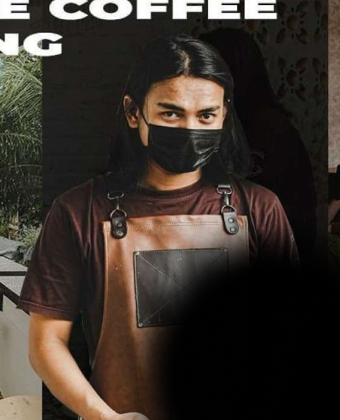
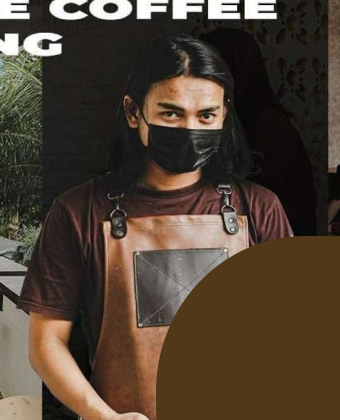
update gede

Changed region(s): [[0.3529, 0.5262, 1.0, 1.0]]

diff --git a/public/assets/frontend/css/style.css b/public/assets/frontend/css/style.css
@@ -203,7 +203,7 @@ a.btn_1 {
     cursor: pointer;
     display: inline-block;
     text-decoration: none;
-    padding: 8px 25px;
+    padding: 10px 24px;
     color: #fff;
     font-weight: 500;
     text-align: center;
@@ -217,7 +217,7 @@ a.btn_1 {
     -webkit-border-radius: 3px;
     -moz-border-radius: 3px;
     -ms-border-radius: 3px;
-    border-radius: 3px;
+    border-radius: 10px;
     line-height: normal;
 }
 
@@ -594,7 +594,7 @@ header.sticky a.open_close {
 
 .main-menu>ul>li>a {
     color: #fff;
-    padding: 5px 8px;
+    padding: 5px 12px;
     font-size: 14px;
     font-size: 0.875rem;
     font-weight: 500;
@@ -1827,7 +1827,7 @@ a.img_container .short_info p {
     background-color: #262626;
     color: #fff;
     padding: 45px;
-    border-radius: 5px;
+    border-radius: 12px !important;
     -webkit-border-radius: 5px;
     -moz-border-radius: 5px;
     -ms-border-radius: 5px;
@@ -1858,7 +1858,7 @@ a.img_container .short_info p {
     background: #262626;
     padding: 20px;
     height: 100%;
-    border-radius: 5px;
+    border-radius: 12px !important;
     -webkit-border-radius: 5px;
     -moz-border-radius: 5px;
     -ms-border-radius: 5px;
@@ -1868,7 +1868,7 @@ a.img_container .short_info p {
 .call_section_img img {
     height: 100% !important;
     object-fit: cover !important;
-    border-radius: 5px;
+    border-radius: 12px !important;
     -webkit-border-radius: 5px;
     -moz-border-radius: 5px;
     -ms-border-radius: 5px;
@@ -1893,9 +1893,9 @@ a.img_container .short_info p {
     content: "";
     width: 200px;
     height: 200px;
-    background: #513819;
-    top: -30px;
-    left: -30px;
+    background: none;
+    top: -11px;
+    left: -10px;
     z-index: -1;
     border-radius: 5px;
 }
@@ -3079,6 +3079,7 @@ a.img_container .short_info p {
 }
 
 .box_contacts {
+    height: 227px;
     background-color: #fff;
     padding: 30px 15px;
     -webkit-border-radius: 5px;
@@ -3624,7 +3625,7 @@ iframe.map_contact {
 }
 
 footer {
-    background-color: #282C35 !important;
+    background-color: #262626 !important;
     padding: 60px 0 10px 0;
     color: rgba(255, 255, 255, 0.6);
     position: relative;

diff --git a/resources/views/home.blade.php b/resources/views/home.blade.php
@@ -55,7 +55,7 @@
     </div>
 
 
-    <section class="container margin_120_100">
+    <!-- <section class="container margin_120_100">
         <div class="row">
             <div class="col-xl-4">
                 <a href="{{ route('menu') }}" class="img_container">
@@ -67,7 +67,7 @@
                 </a>
             </div>
             <div class="col-xl-4">
-                <a href="menu.html" class="img_container">
+                <a href="{{ route('allblogs') }}" class="img_container">
                     <img src="{{ asset('assets/frontend/img/banner_3.jpg') }}" class="lazy">
                     <div class="short_info opacity-mask" data-opacity-mask="rgba(0, 0, 0, 0.5)">
                         <h3>Our Blogs</h3>
@@ -76,7 +76,7 @@
                 </a>
             </div>
             <div class="col-xl-4">
-                <a href="menu.html" class="img_container">
+                <a href="{{ route('contact') }}" class="img_container">
                     <img src="{{ asset('assets/frontend/img/banner_4.jpg') }}" class="lazy">
                     <div class="short_info opacity-mask" data-opacity-mask="rgba(0, 0, 0, 0.5)">
                         <h3>Say Something?</h3>
@@ -112,7 +112,7 @@
                 </a>
             </div>
         </div>
-    </section>
+    </section> -->
 
 
     <!-- <div class="bg_gray">
@@ -176,10 +176,19 @@
                             <h2>Enjoy<span>a Special Event with us!</span></h2>
                             <p>Nemo enim ipsam voluptatem quia voluptas sit aspernatur aut odit aut fugit, sed quia
                                 consequuntur magni dolores eos qui ratione voluptatem sequi nesciunt.</p>
-                            <a href="contacts.html" class="btn_1 mt-3">Contact us</a>
+                            <a href="{{ route('about') }}" class="btn_1 mt-3">Contact us</a>
                         </div>
                     </div>
                     <div class="col-xl-6 col-lg-5 col-md-6 text-center">
+                        
+                            <!-- <a href="{{ route('allblogs') }}" class="img_container">
+                                <img src="{{ asset('assets/frontend/img/banner_3.jpg') }}" class="lazy">
+                                <div class="short_info opacity-mask" data-opacity-mask="rgba(0, 0, 0, 0.5)">
+                                    <h3>Our Blogs</h3>
+                                    <p>Checkout our latest blogs</p>
+                                </div>
+                            </a> -->
+                        
                         <div class="call_section_img" data-cue="slideInUp">
                             <img src="{{ asset('assets/frontend/img/bg_call_section.jpg') }}" alt="call" class="img-fluid">
                         </div>
@@ -210,7 +219,7 @@
                                         </div>
                                         <div id="DatePicker"></div>
                                     </div>
-                                    <!-- /step-->
+                                     /step-->
                                     <!-- <div class="step">
                                         <h3 class="main_question"><strong>2/3</strong> Select time and guests</h3>
                                         <div class="step_wrapper">

diff --git a/resources/views/partials/frontend/footer.blade.php b/resources/views/partials/frontend/footer.blade.php
@@ -4,18 +4,21 @@
             <div class="col-xl-3 col-lg-6 col-md-6 col-sm-6">
                 <div class="footer_wp">
                     <i class="icon_pin_alt"></i>
-                    <h3>Address</h3>
+                    <h3>Contact us</h3>
                     <p>{!! $general ? $general->address:'' !!}</p>
+                    <a href="tel:009442323221">{{ $general ? $general->primary_phone:'' }} </a>
+                    <a href="tel:009442323221">{{ $general ? $general->secondary_phone:'' }} </a>
+                    <a href="#0">{{ $general ? $general->email:'' }}</a>
                 </div>
             </div>
             <div class="col-xl-3 col-lg-6 col-md-6 col-sm-6">
                 <div class="footer_wp">
                     <i class="icon_tag_alt"></i>
-                    <h3>Reservations</h3>
+                    <h3>Find us at</h3>
                     <p>
-                        <a href="tel:009442323221">{{ $general ? $general->primary_phone:'' }} </a>
-                        <a href="tel:009442323221">{{ $general ? $general->secondary_phone:'' }} </a>
-                        <a href="#0">{{ $general ? $general->email:'' }}</a>
+                        <p class="ganti-font"><span><a href="https://gofood.link/u/v2aRYq"><img src="{{ asset('assets/frontend/img/GoFood.png') }}" style="width:50%"></span></p>
+                        <p class="margin_top_20"><span><a href="https://food.grab.com/id/id/restaurant/c-code-coffee-tomang-delivery/6-C2AFSBBEJXMTEN"><img src="{{ asset('assets/frontend/img/GrabFood.png') }}" style="width:50%"></a></span></p>
+                        <!-- <p class="margin_top_20"><span><a href="https://tokopedia.link/Fyr9398M0zb"><img src="{{ asset('assets/frontend/img/tokopedia.png') }}" style="width:50%"></span></p> -->
                     </p>
                 </div>
             </div>

diff --git a/resources/views/frontend/menu.blade.php b/resources/views/frontend/menu.blade.php
@@ -30,8 +30,8 @@
                             <h3>{{ $item->title }}</h3>
                             <p>{{ $item->category->name }}</p>
                             <div class="price_box">
-                                <span class="new_price">${{ $item->price }}</span>
-                                {{-- <span class="old_price">${{ $item->price }}</span> --}}
+                                <span class="new_price">IDR {{ $item->price }}</span>
+                                {{-- <span class="old_price">IDR {{ $item->price }}</span> --}}
                             </div>
                             <!-- @guest
                                     <a href="javascript:void(0)" class="btn_1" data-bs-toggle="modal" data-bs-target="#exampleModal">add to cart</a>
@@ -64,8 +64,8 @@
                             <h3>{{ $item->title }}</h3>
                             <p>{{ $item->category->name }}</p>
                             <div class="price_box">
-                                <span class="new_price">${{ $item->price }}</span>
-                                {{-- <span class="old_price">${{ $item->price }}</span> --}}
+                                <span class="new_price">IDR {{ $item->price }}</span>
+                                {{-- <span class="old_price">IDR {{ $item->price }}</span> --}}
                             </div>
                             <!-- @guest
                                     <a href="javascript:void(0)" class="btn_1" data-bs-toggle="modal" data-bs-target="#exampleModal">add to cart</a>

diff --git a/resources/views/frontend/contact.blade.php b/resources/views/frontend/contact.blade.php
@@ -64,7 +64,7 @@
         </div>
         <div class="col-lg-8 col-md-6 add_bottom_25">
             <iframe class="map_contact"
-                src="https://www.google.com/maps/embed?pb=!1m18!1m12!1m3!1d7297.073003182172!2d90.3769254742574!3d23.8705871381209!2m3!1f0!2f0!3f0!3m2!1i1024!2i768!4f13.1!3m3!1m2!1s0x3755c40f82bd8f7b%3A0x8c888da8fc05ec94!2sSector%2012%2C%20Dhaka%201230!5e0!3m2!1sen!2sbd!4v1665155473199!5m2!1sen!2sbd"
+                src="https://www.google.com/maps/embed?pb=!1m18!1m12!1m3!1d3966.672287495911!2d106.79198961182348!3d-6.174609993786986!2m3!1f0!2f0!3f0!3m2!1i1024!2i768!4f13.1!3m3!1m2!1s0x2e69f7f8346e7b3f%3A0x16c4c2fd67f77feb!2sC%20Code%20Coffee%20Tomang!5e0!3m2!1sen!2sid!4v1684481923199!5m2!1sen!2sid" width="600" height="450" style="border:0;" allowfullscreen="" loading="lazy" referrerpolicy="no-referrer-when-downgrade"
                 width="600" height="450" style="border:0;" allowfullscreen="" loading="lazy"
                 referrerpolicy="no-referrer-when-downgrade"></iframe>
         </div>
